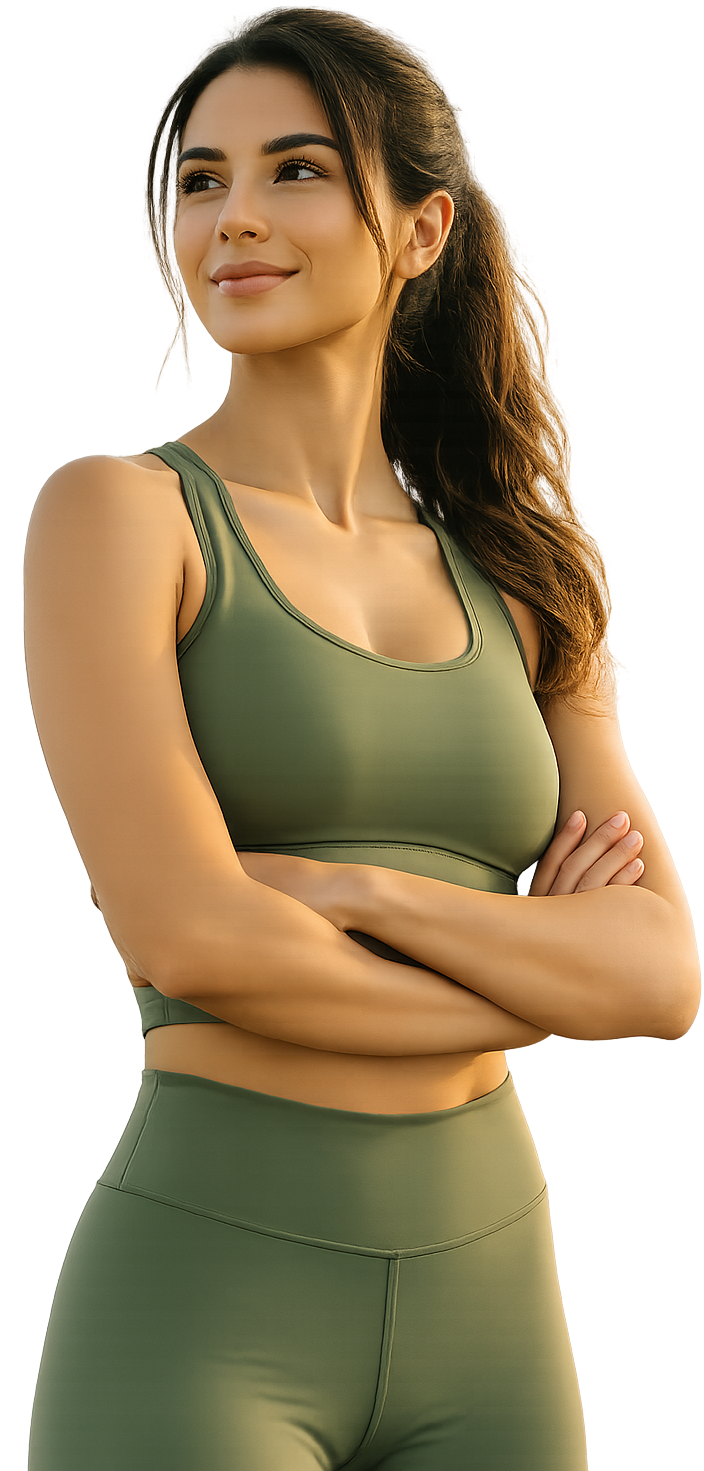
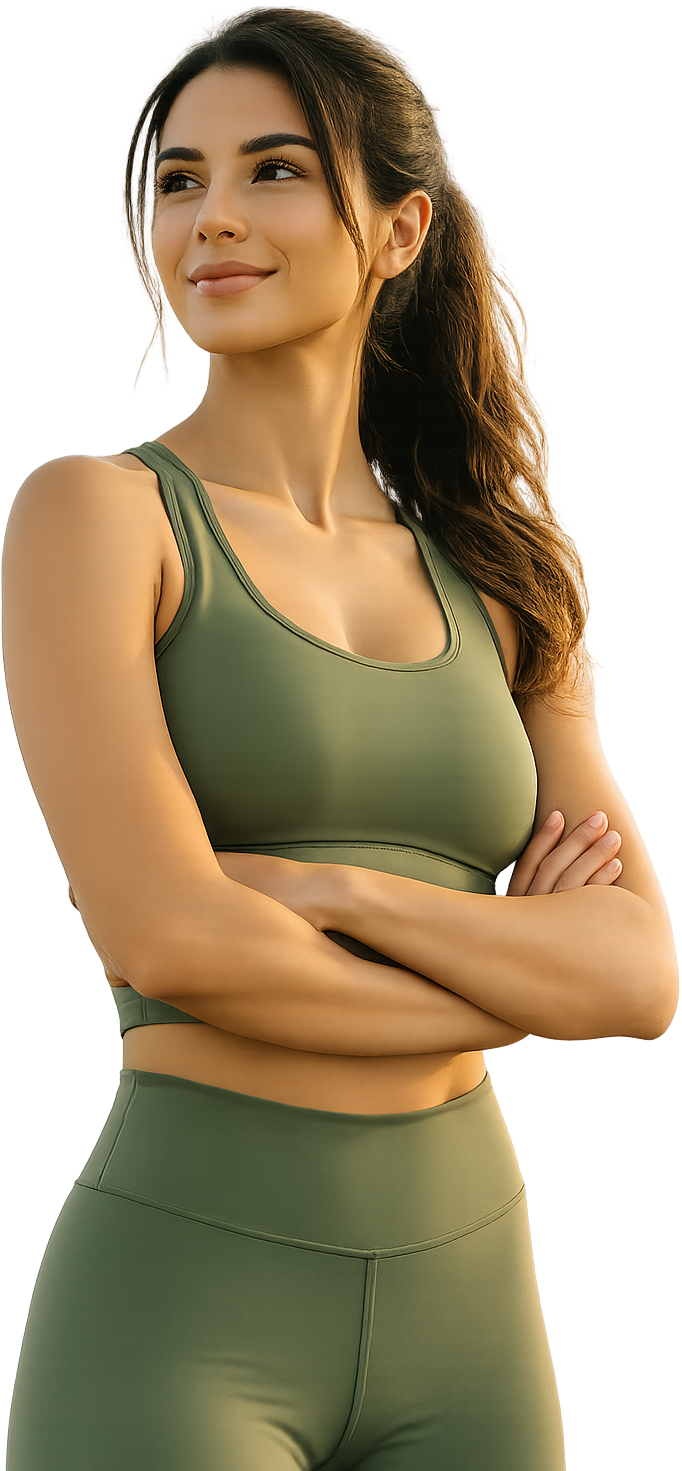
update hero

diff --git a/frontend/src/components/Hero.css b/frontend/src/components/Hero.css
@@ -3,21 +3,21 @@
   min-height: calc(100vh - 91.36px);
   padding: 100px 28px 32px;
   overflow: hidden;
-
+  padding-top: clamp(100px, 15vh, 200px);
   background: var(--background-color);
 }
 
 .hero-content {
   position: relative;
   z-index: 2;
-  max-width: 60%;
+  width: 60%;
 }
 
 .hero h1 {
   margin: 0;
   color: var(--primary-color);
   font-family: Georgia, "Times New Roman", serif;
-  font-size: clamp(1rem, 6.8vw, 5.5rem);
+  font-size: clamp(1rem, 6.8vw, 3.5rem);
   line-height: 1.3;
 }
 
@@ -54,8 +54,8 @@
   margin: 28px 0 0;
   max-width: 80%;
   color: var(--text-color);
-  font-size: 1.1rem;
-  line-height: 1.6;
+  font-size: 1rem;
+  line-height: 1.4;
   font-weight: 500;
 }
 
@@ -142,19 +142,43 @@
 .hero-art {
   position: absolute;
   right: 0px;
-  bottom: 0px;
+  bottom: -4px;
   width: 125%;
   max-width: none;
   z-index: 1;
-  pointer-events: none;
+
   opacity: 0.5;
+  transform-origin: center bottom;
+  animation: hillsWave 5s ease-in-out infinite;
+}
+
+@keyframes hillsWave {
+  0% {
+    transform: translateY(0) rotate(0deg) scaleX(1);
+  }
+
+  25% {
+    transform: translateY(-4px) rotate(-0.3deg) scaleX(1.005);
+  }
+
+  50% {
+    transform: translateY(0) rotate(0deg) scaleX(1);
+  }
+
+  75% {
+    transform: translateY(4px) rotate(0.3deg) scaleX(0.995);
+  }
+
+  100% {
+    transform: translateY(0) rotate(0deg) scaleX(1);
+  }
 }
 
 .hero-portrait {
   position: absolute;
   right: -50px;
   bottom: 0px;
-  width: 60%;
+  width: 55%;
   height: 90%;
   max-width: none;
   z-index: 2;
@@ -173,55 +197,136 @@ html[dir="rtl"] .hero-portrait {
   transform: scaleX(-1);
 }
 
-@media (min-width: 700px) {
-  .hero {
-    min-height: calc(100vh - 96px);
-    padding: 90px 8%;
+.plant-decoration {
+  position: absolute;
+  right: 100px;
+  bottom: 50px;
+
+  width: clamp(220px, 30vw, 480px);
+
+  pointer-events: none;
+  z-index: 1;
+
+  transform-origin: bottom left;
+  animation: plant-sway 5s ease-in-out infinite;
+}
+
+.plant-decoration img {
+  display: block;
+  width: auto;
+  height: 600px;
+}
+
+@keyframes plant-sway {
+  0%,
+  100% {
+    transform: rotate(-1deg);
   }
 
-  .hero-content {
-    max-width: 50%;
+  50% {
+    transform: rotate(3deg);
+  }
+}
+
+@media (min-width: 1000px) {
+  .hero {
+    max-height: calc(100vh - 91.36px);
+    padding-top: 90px;
+    padding-bottom: 90px;
+    padding-left: 8%;
+    padding-right: 0;
+    align-items: center;
+    display: flex;
   }
 
   .hero h1 {
-    font-size: 4rem;
+    font-size: clamp(1rem, 4vw, 3.5rem);
+  }
+
+  html[dir="rtl"] .hero-line {
+    display: inline-block;
+    margin-left: 0.25em;
   }
 
   .hero p {
-    font-size: 1.15rem;
+    font-size: clamp(0.85rem, 1vw, 1.25rem);
+  }
+
+  .hero-content {
+    width: 55%;
   }
 
   .hero-buttons {
     flex-direction: row;
   }
 
-  .hero-hills {
-    position: absolute;
-    left: 0;
-    right: 0;
-    bottom: 0;
-    height: 25vh;
-    overflow: hidden;
-  }
-
   .hero-art {
-    position: absolute;
-    left: 0;
-    top: 0;
+    bottom: -5vh;
     width: 100%;
     height: auto;
   }
 
   .hero-portrait {
-    right: 25%;
+    right: 20px;
     bottom: 0;
-    width: 20%;
-    height: 80%;
+    width: auto;
+    height: 90%;
   }
 
   html[dir="rtl"] .hero-portrait {
     right: auto;
-    left: 25%;
+    left: 20px;
     transform: scaleX(-1);
+  }
+
+  html[dir="rtl"] .hero {
+    padding-left: 0;
+    padding-right: 8%;
+  }
+}
+
+@media (min-width: 1000px) {
+  .hero-art {
+    bottom: -10vh;
+    width: 100%;
+    height: auto;
+  }
+
+  .hero-portrait {
+    left: 55%;
+    bottom: 0;
+    width: auto;
+    height: 90%;
+  }
+
+  html[dir="rtl"] .hero-portrait {
+    right: 55%;
+    transform: scaleX(-1);
+  }
+}
+
+@media (min-width: 1200px) {
+  .hero-art {
+    bottom: -20vh;
+    width: 100%;
+    height: auto;
+  }
+
+  .hero-portrait {
+    left: 55%;
+    bottom: 0;
+    width: auto;
+    height: 90%;
+  }
+
+  html[dir="rtl"] .hero-portrait {
+    right: 55%;
+    transform: scaleX(-1);
+  }
+}
+
+@media (min-width: 1720px) {
+  .hero-content {
+    max-width: 40%;
   }
 }

diff --git a/frontend/src/components/Hero.jsx b/frontend/src/components/Hero.jsx
@@ -4,6 +4,7 @@ import { useTranslation } from "react-i18next";
 import heroPortrait from "../assets/portrait.png";
 import { PiPlantLight } from "react-icons/pi";
 import { Link } from "react-router-dom";
+import plant from "../assets/plant.png";
 
 export default function Hero() {
   const { t } = useTranslation();
@@ -41,6 +42,9 @@ export default function Hero() {
         <img src={heroArt} alt="" className="hero-art" />
       </div>
       <img src={heroPortrait} alt="" className="hero-portrait" />
+      {/*<div className="plant-decoration" aria-hidden="true">
+        <img src={plant} />
+      </div>*/}
     </section>
   );
 }